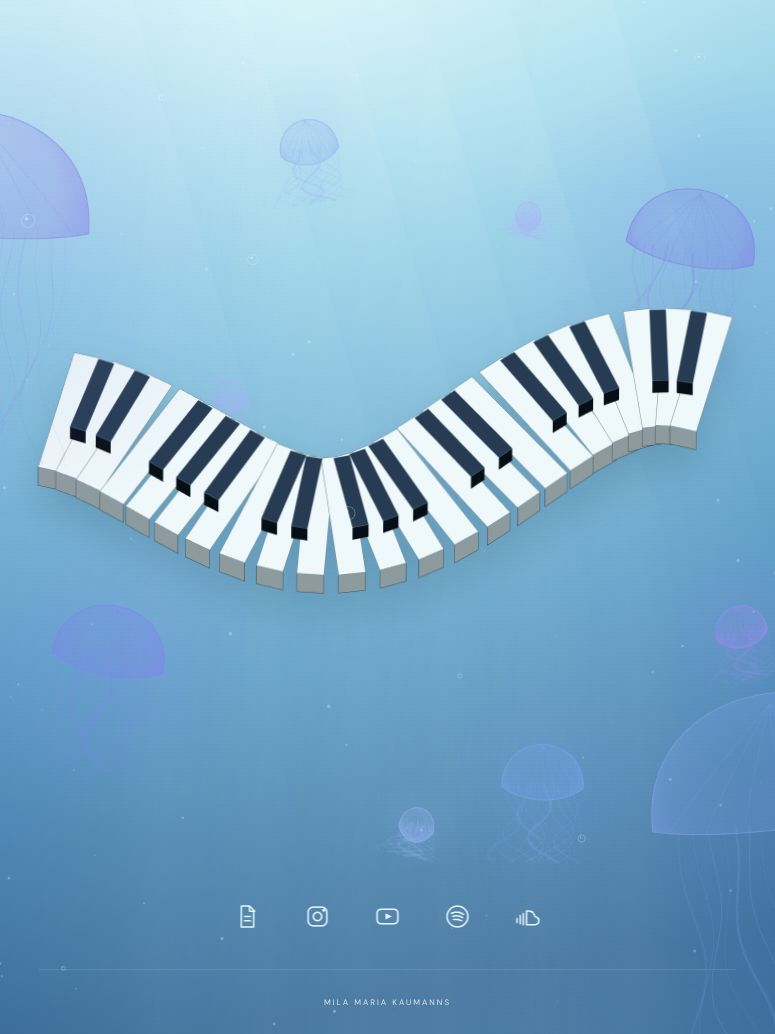
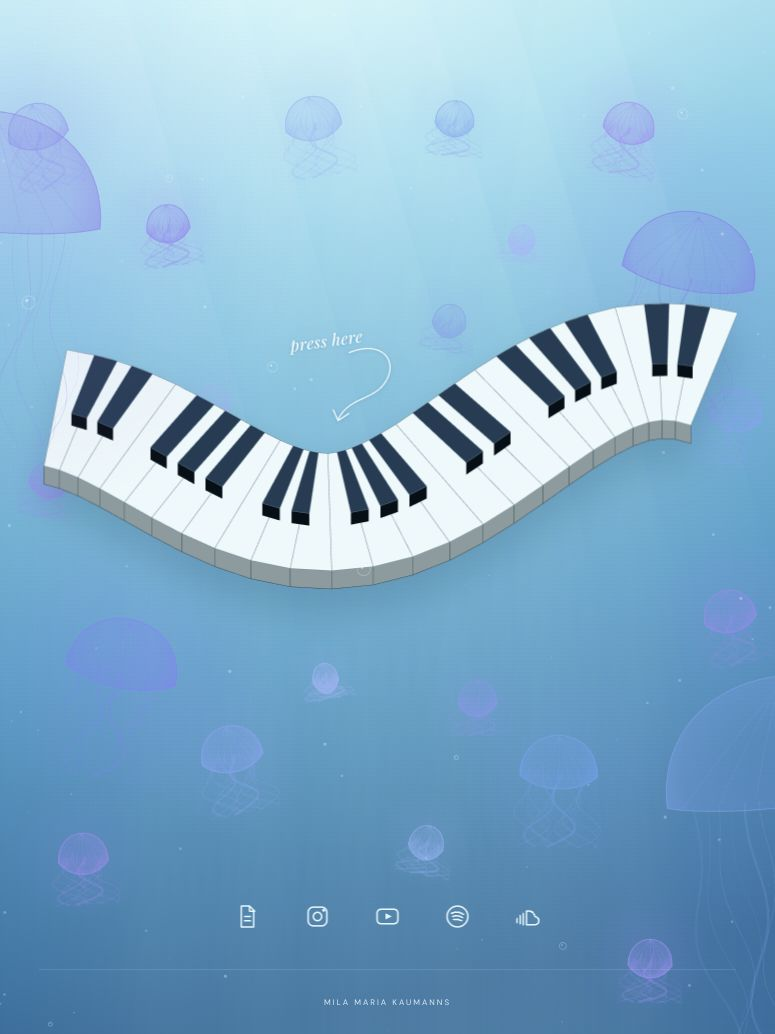
updated player

diff --git a/underwater-keys/dist/app.js b/underwater-keys/dist/app.js
@@ -14,7 +14,7 @@ function prepareAudio(index) {
     frame.inert = true; frame.className = 'audio-frame'; frame.title = item[0]; frame.allow = 'autoplay'; frame.scrolling = 'no';
     frame.src = 'https://w.soundcloud.com/player/?url=' + encodeURIComponent(trackUrl(item)) + '&auto_play=false&color=%23bdd78e&visual=false&show_artwork=false&show_teaser=false';
     warmup.append(frame);
-    const entry = {frame, widget: null, ready: false, wanted: false, retry: null};
+    const entry = {frame, widget: null, ready: false, wanted: false, retry: null, started: false, requestedAt: 0};
     audioCache.set(index, entry);
     const connect = () => {
         if (!window.SC?.Widget || entry.widget) return;
@@ -25,8 +25,17 @@ function prepareAudio(index) {
         });
         entry.widget.bind(SC.Widget.Events.PLAY, () => {
             if (currentAudio !== entry || currentKind !== 'soundcloud') { entry.widget.pause(); return; }
-            clearTimeout(entry.retry); entry.wanted = false;
+            // PLAY can arrive before buffering/autoplay has actually succeeded.
+            // Only advancing playback proves that the visitor is hearing the track.
+            if (!entry.started) document.querySelector('#playing').textContent = 'Starting · ' + item[0];
+        });
+        entry.widget.bind(SC.Widget.Events.PLAY_PROGRESS, progress => {
+            if (currentAudio !== entry || currentKind !== 'soundcloud' || progress.currentPosition < 100) return;
+            entry.started = true; entry.wanted = false; clearTimeout(entry.retry);
             document.querySelector('#playing').textContent = item[0];
+        });
+        entry.widget.bind(SC.Widget.Events.PAUSE, () => {
+            if (currentAudio === entry && entry.started) document.querySelector('#playing').textContent = 'Paused · ' + item[0];
         });
         entry.widget.bind(SC.Widget.Events.ERROR, () => {
             clearTimeout(entry.retry);
@@ -43,14 +52,20 @@ function prepareAudio(index) {
     if (!entry.widget) document.querySelector('#soundcloud-api').addEventListener('load', connect, {once:true});
     return entry;
 }
-function requestPlayback(entry, attempt = 0) {
+function requestPlayback(entry) {
     clearTimeout(entry.retry);
     if (!entry.wanted || currentAudio !== entry || currentKind !== 'soundcloud' || !entry.widget) return;
+    const elapsed = performance.now() - entry.requestedAt;
+    if (elapsed > 15000) {
+        entry.wanted = false;
+        document.querySelector('#playing').textContent = 'Tap ▶ in the player to start audio';
+        return;
+    }
     entry.widget.play();
-    // READY alone does not mean the stream is buffered. Keep the original click
-    // pending until PLAY, without retrying after a user pauses actual playback.
-    if (attempt < 12) entry.retry = setTimeout(() => requestPlayback(entry, attempt + 1), 400);
-    else document.querySelector('#playing').textContent = 'SoundCloud is taking longer — use the play button below';
+    // Keep the click pending through buffering and premature PLAY events.
+    // Stop immediately once the playback position actually advances.
+    entry.retry = setTimeout(() => requestPlayback(entry), 750);
+    if (elapsed > 3500) document.querySelector('#playing').textContent = 'Waiting for SoundCloud · tap ▶ below if paused';
 }
 function stopAudio() {
     if (currentAudio) { currentAudio.wanted = false; clearTimeout(currentAudio.retry); currentAudio.widget?.pause(); currentAudio.frame.classList.remove('current'); currentAudio.frame.inert = true; }
@@ -68,7 +83,7 @@ function play(kind, index, key) {
     if (kind === 'soundcloud') {
         const entry = prepareAudio(index);
         if (entry) {
-            currentAudio = entry; entry.wanted = true;
+            currentAudio = entry; entry.wanted = true; entry.started = false; entry.requestedAt = performance.now();
             entry.frame.classList.add('current'); entry.frame.inert = false;
             // Call play inside the key gesture, and again on READY for a cold player.
             requestPlayback(entry);
@@ -103,7 +118,29 @@ prepareAudio(0);
 // Preconnect a second likely key without waiting for a hover.
 setTimeout(() => prepareAudio(1), 350);
 // Each key is an extruded quadrilateral following a sinuous spatial ribbon.
-const N = 24; function corners(t, width = 1, black = false) { let c = center(t), a = center(t - .001), b = center(t + .001), dx = b[0] - a[0], dy = b[1] - a[1], l = Math.hypot(dx, dy), nx = -dy / l, ny = dx / l; let h = black ? 83 : 138; let offset = black ? -52 : 0; return [[c[0] - dx / l * 22.3 * width + nx * (-h + offset), c[1] - dy / l * 22.3 * width + ny * (-h + offset) * .70], [c[0] + dx / l * 22.3 * width + nx * (-h + offset), c[1] + dy / l * 22.3 * width + ny * (-h + offset) * .70], [c[0] + dx / l * 22.3 * width + nx * (h + offset), c[1] + dy / l * 22.3 * width + ny * (h + offset) * .70], [c[0] - dx / l * 22.3 * width + nx * (h + offset), c[1] - dy / l * 22.3 * width + ny * (h + offset) * .70]] }
+const N = 24;
+// Adjacent keys use the very same cross-section of the curved ribbon.
+// Independent rotated rectangles left wedges and intersections on bends.
+function ribbonEdge(t, offset, lift = 0) {
+    const c = center(t), a = center(t - .0001), b = center(t + .0001);
+    const dx = b[0] - a[0], dy = b[1] - a[1], length = Math.hypot(dx, dy);
+    return [c[0] - dy / length * offset, c[1] + dx / length * offset * .70 - lift];
+}
+function whiteBackEdge(t) {
+    // Follow the actual straight segments of the white-key outline.
+    const key = Math.floor(t * (N - 1) + .5);
+    const left = (key - .5) / (N - 1), right = (key + .5) / (N - 1);
+    const a = ribbonEdge(left, -138), b = ribbonEdge(right, -138);
+    const fraction = (t - left) / (right - left);
+    return a.map((value, axis) => value + (b[axis] - value) * fraction);
+}
+function corners(t, width = 1, black = false) {
+    const half = width / (2 * (N - 1));
+    const back = -138, front = black ? 22 : 138, lift = black ? 12 : 0;
+    return [black ? whiteBackEdge(t-half) : ribbonEdge(t-half,back),
+        black ? whiteBackEdge(t+half) : ribbonEdge(t+half,back),
+        ribbonEdge(t+half,front,lift),ribbonEdge(t-half,front,lift)];
+}
 const defs = el('defs', {}, svg);
 const wear = el('pattern', {id:'key-wear',width:43,height:67,patternUnits:'userSpaceOnUse'}, defs);
 el('path', {d:'M4 9l2 19M30 40l1 17M12 61l8-2M39 4l-3 7',stroke:'#463e37','stroke-opacity':'.20','stroke-width':'.8'}, wear);
@@ -123,6 +160,18 @@ let reduced = matchMedia('(prefers-reduced-motion: reduce)').matches; const jell
 {x:.28,y:.36,r:20,c:[153,184,247],s:6,z:.25},
 {x:.65,y:.21,r:15,c:[163,185,251],s:7,z:.2},
 {x:.52,y:.82,r:20,c:[133,175,240],s:8,z:.3},
+{x:.08,y:.12,r:36,c:[144,159,242],s:11,z:.5},
+{x:.23,y:.19,r:25,c:[150,136,244],s:12,z:.35},
+{x:.57,y:.09,r:22,c:[130,179,241],s:13,z:.3},
+{x:.78,y:.12,r:29,c:[163,143,245],s:14,z:.4},
+{x:.93,y:.42,r:32,c:[126,165,244],s:15,z:.5},
+{x:.12,y:.85,r:30,c:[159,139,240],s:16,z:.45},
+{x:.33,y:.73,r:37,c:[132,165,247],s:17,z:.55},
+{x:.44,y:.63,r:15,c:[158,180,248],s:18,z:.2},
+{x:.83,y:.9,r:25,c:[158,143,246],s:19,z:.4},
+{x:.55,y:.3,r:19,c:[130,169,235],s:20,z:.25},
+{x:.04,y:.48,r:23,c:[160,145,247],s:21,z:.35},
+{x:.62,y:.7,r:23,c:[134,150,238],s:22,z:.3},
 {x:-.025,y:.23,r:133,c:[144,137,239],s:9,z:1.8,near:true},
 {x:1.04,y:.78,r:150,c:[113,161,235],s:10,z:2,near:true}
 ]; function jelly(j, t, layer = ctx) { const ctx=layer; let x=j.x*w+Math.sin(t*.16+j.s)*25-swimX*j.z*38, y=j.y*h+Math.cos(t*.21+j.s)*28-swimY*j.z*30, r=j.r*Math.min(w/900,1)*(1+Math.sin(t*1.05+j.s)*.035), col=j.c.join(','); ctx.save(); ctx.translate(x, y); ctx.rotate(Math.sin(j.s) * .22); let glow = ctx.createRadialGradient(0, 0, 0, 0, 0, r * 2.8); glow.addColorStop(0, `rgba(${col},.16)`); glow.addColorStop(1, `rgba(${col},0)`); ctx.fillStyle = glow; ctx.fillRect(-r * 3, -r * 3, r * 6, r * 6); for (let k = 0; k < 16; k++) { ctx.beginPath(); let sx = (k / 15 - .5) * r * 1.6; ctx.moveTo(sx, 12); for (let n = 1; n < 18; n++) { let yy = n * r * .12, xx = sx + Math.sin(n * .45 + t * .8 + k) * n * 1.3; ctx.lineTo(xx, yy) } ctx.strokeStyle = `rgba(${col},${.12 + (k % 3) * .09})`; ctx.lineWidth = k % 4 === 0 ? 2.4 : .7; ctx.stroke() } let g = ctx.createRadialGradient(-r * .25, -r * .4, 2, 0, -r * .1, r * 1.1); g.addColorStop(0, `rgba(${col},.12)`); g.addColorStop(.7, `rgba(${col},.3)`); g.addColorStop(1, `rgba(${col},.65)`); ctx.beginPath(); ctx.moveTo(-r, 8); ctx.bezierCurveTo(-r, -r * 1.2, r, -r * 1.2, r, 8); ctx.bezierCurveTo(r * .5, 25, -r * .5, 25, -r, 8); ctx.fillStyle = g; ctx.fill(); ctx.strokeStyle = `rgba(${col},.7)`; ctx.lineWidth = 1; ctx.stroke(); for (let k = 0; k < 7; k++) { ctx.beginPath(); ctx.moveTo(0, -r * .8); ctx.quadraticCurveTo((k - 3) * r * .18, -r * .3, (k - 3) * r * .29, 10); ctx.strokeStyle = `rgba(${col},.2)`; ctx.stroke() } ctx.restore() }
@@ -167,3 +216,7 @@ function draw(ms) {
  }
 }
 requestAnimationFrame(draw);
+
+const invitation = el('g', {class:'piano-invitation','pointer-events':'none','aria-hidden':'true'}, svg);
+el('text', {x:440,y:105,transform:'rotate(-8 440 105)'}, invitation).textContent='press here';
+el('path', {d:'M 536 106 C 591 83 620 121 594 157 C 575 184 535 180 518 216 M 510 200 L 518 218 L 536 206',fill:'none',stroke:'currentColor','stroke-width':2,'stroke-linecap':'round','stroke-linejoin':'round'}, invitation);

diff --git a/underwater-keys/dist/style.css b/underwater-keys/dist/style.css
@@ -482,3 +482,4 @@ footer{height:65px;border-top:1px solid #2e709626;color:#2e6078;font-family:'DM 
 /* Swimming viewpoint: distant water behind, nearby life in front. */
 body{background:#439cc8}#near-water{position:fixed;inset:0;width:100%;height:100%;z-index:3;pointer-events:none}#piano{transform-origin:50% 50%;will-change:transform;filter:drop-shadow(0 22px 20px #164d6b40)}nav{z-index:4}nav a,nav a:nth-child(even){color:#e3f7fc}nav a:hover{color:#fff;background:#ffffff20}footer{position:relative;z-index:4;color:#d9edf7;border-top:1px solid #d8f3ff22}#player{z-index:10}.black-key .top{fill:#203c55}.white-key .top{fill:#edf8fa}#instrument{perspective:1000px}.grain{opacity:.015}
 @media(prefers-reduced-motion:reduce){#piano{will-change:auto;transform:none!important}}
+.piano-invitation{color:#f2fbff;filter:drop-shadow(0 1px 3px #23577b50)}.piano-invitation text{fill:currentColor;font-family:'Playfair Display',Georgia,serif;font-style:italic;font-size:27px;letter-spacing:.4px}.key .top{transition:fill .18s}.key:hover .top,.key:focus .top,.key.active .top{transform:none}

diff --git a/underwater-keys/dist/index.html b/underwater-keys/dist/index.html
@@ -11,7 +11,7 @@
     <link rel="preconnect" href="https://w.soundcloud.com">
     <link rel="preconnect" href="https://api.soundcloud.com">
     <link rel="preconnect" href="https://cf-media.sndcdn.com">
-    <link rel="stylesheet" href="style.css?v=20261112-4">
+    <link rel="stylesheet" href="style.css?v=20261124-3">
 </head>
 
 <body><canvas id="ocean" aria-hidden="true"></canvas><canvas id="near-water" aria-hidden="true"></canvas>
@@ -37,7 +37,7 @@
     <footer><span>MILA MARIA KAUMANNS</span></footer>
     <div id="audio-warmup" aria-hidden="true"></div>
     <script id="soundcloud-api" src="https://w.soundcloud.com/player/api.js" async></script>
-    <script src="app.js?v=20261112-4" defer></script>
+    <script src="app.js?v=20261124-3" defer></script>
 </body>
 
 </html>
